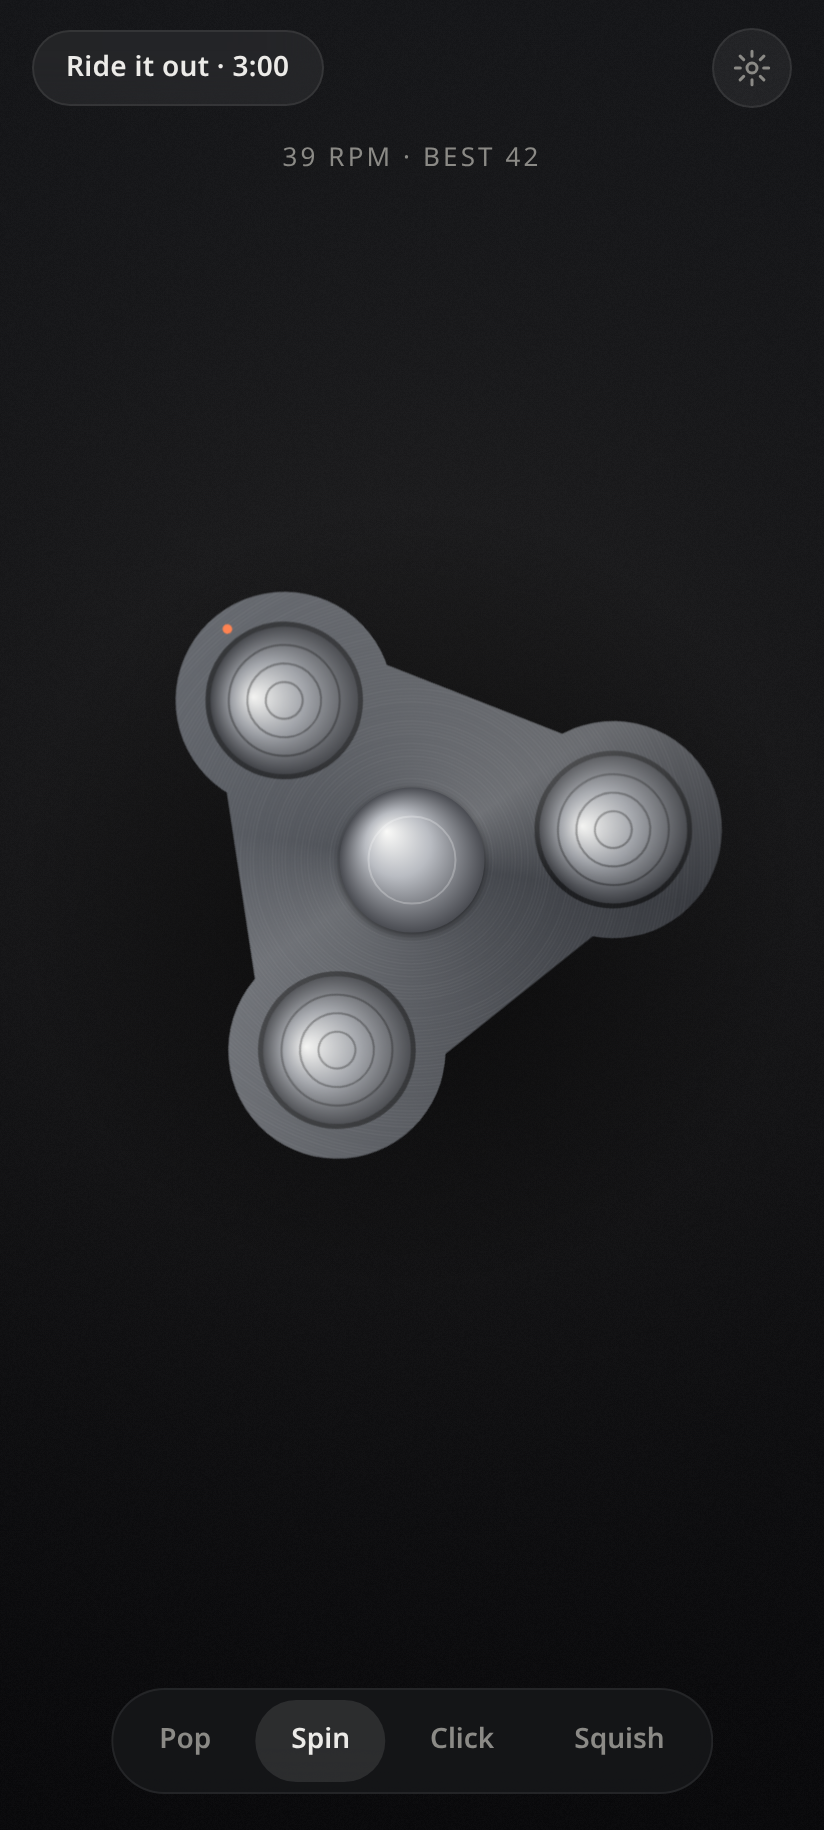
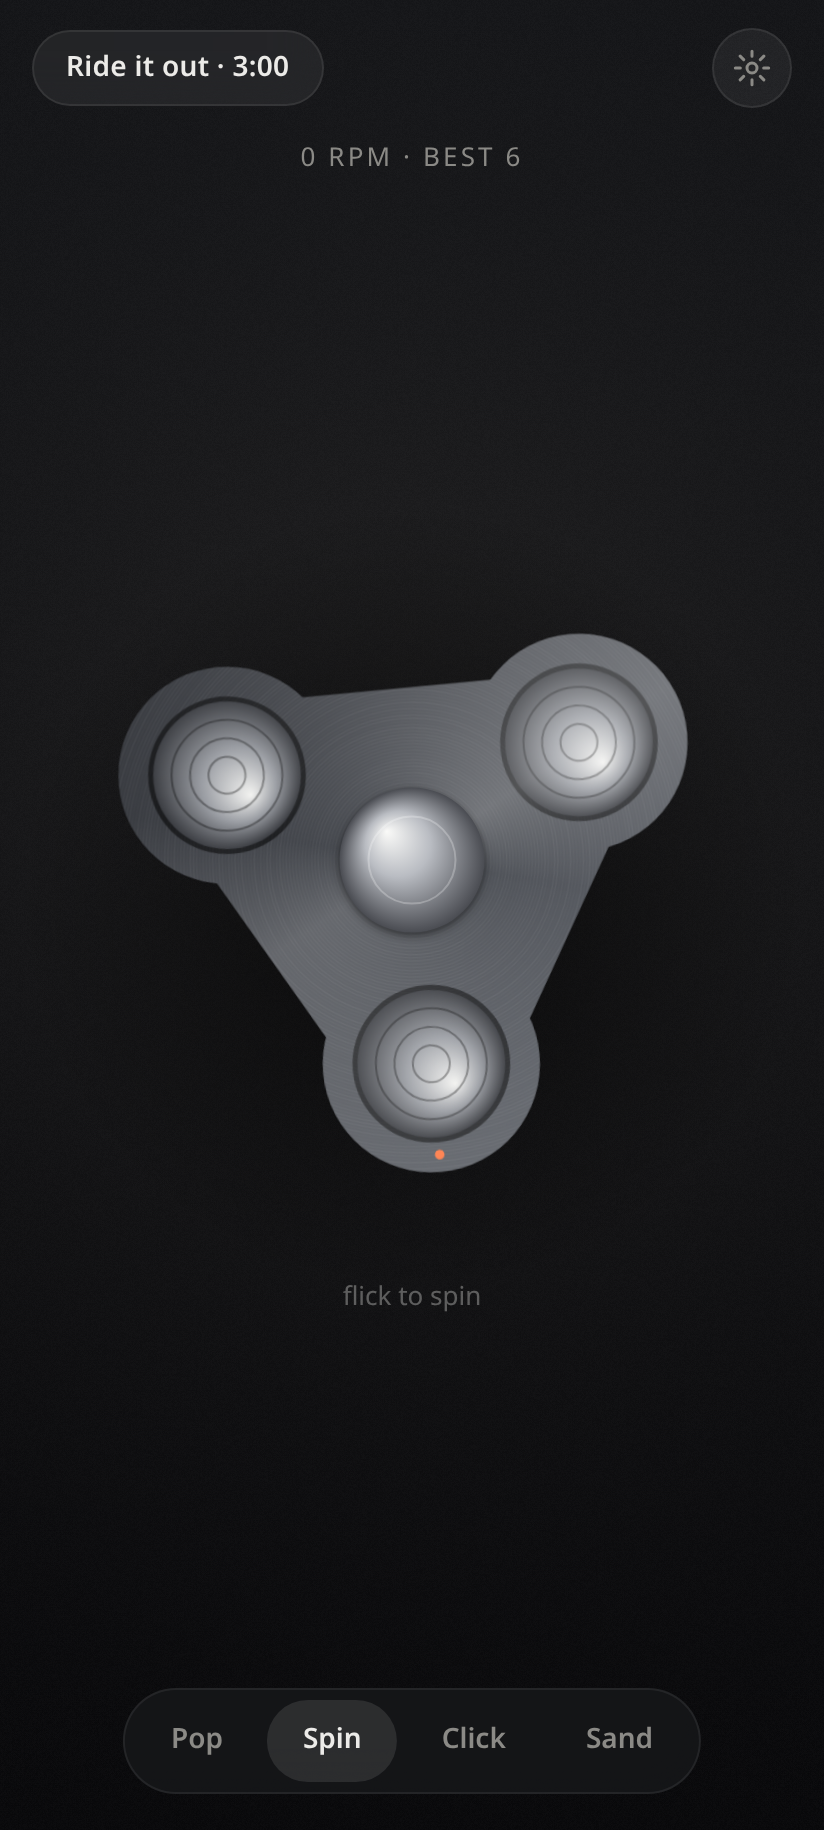
Replace Squish with Kinetic Sand

diff --git a/js/toys/sand.js b/js/toys/sand.js
@@ -1,0 +1,74 @@
+// Sand: kinetic-sand heightfield. Drag = slice, hold = dent, pinch = crumble, Mold = fresh shape.
+import { sfx, buzz, opts } from '../feel.js?v=2';
+import { makeGrid, mold, relax, carve, deposit, SHAPES } from './sandgrid.js?v=1';
+import { makeRenderer, COLORS } from './sandrender.js?v=1';
+import { rr, DPR } from '../render.js?v=1';
+const GW = 110;
+export function create() {
+  let W, H, G, ren, bx, by, bw, bh, cs, n = 0, crumbs = [], F = new Map(), tick = 0, btn, settle = 0, cuts = 0;
+  const toG = (x, y) => [(x - bx) / cs, (y - by) / cs];
+  function fresh() { mold(G, SHAPES[n % SHAPES.length]); crumbs = []; cuts = 0; }
+  function spawn(gx, gy, amt, vx, vy) { // crumbs carry sand mass; they tumble then re-deposit
+    const k = Math.min(6, Math.ceil(amt * 3));
+    for (let i = 0; i < k && crumbs.length < 500; i++) crumbs.push({ x: gx + Math.random() - 0.5, y: gy + Math.random() - 0.5, vx: vx + (Math.random() - 0.5) * 6, vy: vy + (Math.random() - 0.5) * 6, z: 0.4 + Math.random() * 0.4, m: amt / k, s: 0.6 + Math.random() * 0.9 });
+  }
+  function slice(x0, y0, x1, y1, speed) {
+    const [a, b] = toG(x0, y0), [c, d] = toG(x1, y1), L = Math.hypot(c - a, d - b), steps = Math.ceil(L * 4) || 1;
+    const nx = -(d - b) / (L || 1), ny = (c - a) / (L || 1); let rem = 0;
+    for (let s = 1; s <= steps; s++) {
+      const gx = a + (c - a) * s / steps, gy = b + (d - b) * s / steps, r = carve(G, gx, gy, 1.5, 3); rem += r;
+      if (r > 0.05) { const side = Math.random() < 0.5 ? 1 : -1; spawn(gx + nx * side * 2.6, gy + ny * side * 2.6, r * 0.9, nx * side * 9, ny * side * 9); }
+    }
+    if (rem > 0.05) { sfx.sand(Math.min(1, speed / 1.5)); buzz(5 + Math.min(10, rem * 2)); cuts++; }
+  }
+  return {
+    resize(w, h) {
+      W = w; H = h; bw = Math.min(W * 0.92, 420); cs = bw / GW; const gh = Math.round(Math.min(H * 0.56, bw * 1.15) / cs); bh = gh * cs;
+      bx = (W - bw) / 2; by = H * 0.47 - bh / 2; G = makeGrid(GW, gh); ren = makeRenderer(G, Math.min(1.5, DPR())); fresh();
+      btn = { w: 112, h: 40, x: W / 2 - 56, y: by + bh + 14 };
+    },
+    hud: () => `${SHAPES[n % SHAPES.length]} · slice · press · pinch`,
+    down(id, x, y) {
+      if (x > btn.x && x < btn.x + btn.w && y > btn.y && y < btn.y + btn.h) { n++; fresh(); sfx.sand(0.9); setTimeout(() => sfx.sand(0.5), 70); buzz(25); return; }
+      F.set(id, { x, y, sx: x, sy: y, t: performance.now(), lx: x, ly: y, cut: false, lt: performance.now() });
+    },
+    move(id, x, y) {
+      const f = F.get(id); if (!f) return; const now = performance.now();
+      if (!f.cut && Math.hypot(x - f.sx, y - f.sy) > 7 && F.size === 1) f.cut = true;
+      if (f.cut) { const sp = Math.hypot(x - f.lx, y - f.ly) / Math.max(1, now - f.lt); slice(f.lx, f.ly, x, y, sp); }
+      f.lx = x; f.ly = y; f.lt = now; f.x = x; f.y = y;
+    },
+    up(id) { F.delete(id); },
+    step(dt) {
+      tick++;
+      // press: held finger sinks a fingertip-shaped dent, displaced sand rises on the rim
+      const fs = [...F.values()];
+      for (const f of fs) if (!f.cut && fs.length === 1 && performance.now() - f.t > 90) {
+        const [gx, gy] = toG(f.x, f.y); const r = carve(G, gx, gy, 4.2, 0.004);
+        if (r > 0) { for (let a = 0; a < 6.28; a += 0.5) deposit(G, gx + Math.cos(a) * 5, gy + Math.sin(a) * 5.4, r / 13); if (tick % 24 === 0) { sfx.sand(0.15); buzz(3); } }
+      }
+      // pinch: two fingers closing crumble the sand between them
+      if (fs.length === 2) {
+        const [p, q] = fs, d = Math.hypot(p.x - q.x, p.y - q.y); if (p.pd && d < p.pd - 0.5) {
+          const [mx, my] = toG((p.x + q.x) / 2, (p.y + q.y) / 2), r = carve(G, mx + (Math.random() - .5) * d / cs * 0.5, my + (Math.random() - .5) * 3, 2.5, 0.06);
+          if (r > 0.02) { spawn(mx, my, r, (Math.random() - .5) * 10, (Math.random() - .5) * 10); if (tick % 6 === 0) { sfx.sand(0.4); buzz(6); } }
+        } p.pd = d;
+      }
+      if (tick % 3 === 0) { const m = relax(G, 0.3, 0.06); if (m > 0.4 && tick % 30 === 0) sfx.sand(0.1); }
+      for (let i = crumbs.length - 1; i >= 0; i--) {
+        const c = crumbs[i]; c.x += c.vx * dt; c.y += c.vy * dt; c.vx *= 0.94; c.vy *= 0.94; c.z -= dt * 1.6;
+        if (c.z <= 0 && Math.hypot(c.vx, c.vy) < 0.8) { deposit(G, c.x, c.y, c.m); crumbs.splice(i, 1); }
+      }
+    },
+    draw(g) {
+      // tray
+      rr(g, bx - 10, by - 10, bw + 20, bh + 20, 26); g.fillStyle = 'rgba(255,255,255,.025)'; g.fill(); g.strokeStyle = 'rgba(255,255,255,.05)'; g.lineWidth = 1; g.stroke();
+      const col = COLORS[n % COLORS.length];
+      ren.draw(g, bx, by, bw, bh, col, opts.calm);
+      const [r0, g0, b0] = opts.calm ? [150, 160, 150] : col;
+      for (const c of crumbs) { const s = 0.75 + c.s * 0.2; g.fillStyle = `rgb(${r0 * s | 0},${g0 * s | 0},${b0 * s | 0})`; const z = c.z * 6; g.fillRect(bx + c.x * cs - c.s, by + c.y * cs - c.s - z, c.s * 2, c.s * 2); }
+      rr(g, btn.x, btn.y, btn.w, btn.h, 20); g.fillStyle = 'rgba(255,255,255,.08)'; g.fill(); g.strokeStyle = 'rgba(255,255,255,.1)'; g.stroke();
+      g.fillStyle = '#ecebe8'; g.font = '600 14px system-ui'; g.textAlign = 'center'; g.textBaseline = 'middle'; g.fillText('Mold ↻', W / 2, btn.y + btn.h / 2 + 1);
+    },
+  };
+}

diff --git a/js/toys/sandrender.js b/js/toys/sandrender.js
@@ -1,0 +1,40 @@
+// Shades the sand heightfield (top-left key light) into a small canvas, then adds a crisp full-res grain layer.
+export const COLORS = [[232, 120, 92], [96, 168, 190], [214, 180, 112], [150, 120, 200], [120, 176, 120]];
+export function makeRenderer(G, dpr) {
+  const c = document.createElement('canvas'); c.width = G.gw; c.height = G.gh;
+  const g = c.getContext('2d'), img = g.createImageData(G.gw, G.gh);
+  const out = document.createElement('canvas'), og = out.getContext('2d');
+  const noise = document.createElement('canvas'); noise.width = noise.height = 128;
+  const ng = noise.getContext('2d'), nd = ng.createImageData(128, 128);
+  for (let i = 0; i < nd.data.length; i += 4) { const v = Math.random() < 0.5 ? 0 : 255; nd.data[i] = nd.data[i + 1] = nd.data[i + 2] = v; nd.data[i + 3] = 10 + Math.random() * 34; }
+  ng.putImageData(nd, 0, 0);
+  let pat = null; const sh = document.createElement('canvas'); sh.width = G.gw + 16; sh.height = G.gh + 16; const sg = sh.getContext('2d');
+  return {
+    draw(dst, x, y, w, h, col, calm) {
+      const { gw, gh, h: H, grain } = G, d = img.data;
+      const [r0, g0, b0] = calm ? [150, 160, 150] : col;
+      for (let j = 0; j < gh; j++) for (let i = 0; i < gw; i++) {
+        const k = j * gw + i, v = H[k], p = k * 4;
+        if (v < 0.015) { d[p + 3] = 0; continue; }
+        const l = i > 0 ? H[k - 1] : 0, r = i < gw - 1 ? H[k + 1] : 0, u = j > 0 ? H[k - gw] : 0, dn = j < gh - 1 ? H[k + gw] : 0;
+        const nx = (l - r) * 3.2, ny = (u - dn) * 3.2; // gradient -> normal
+        let s = 0.78 + (nx * 0.6 + ny * 0.8) * 0.55 + v * 0.12; // key light top-left + slight height AO
+        const steep = Math.min(1, Math.hypot(nx, ny) * 0.6); // cut faces: rougher, more grain contrast
+        s += (grain[k] - 0.5) * (0.07 + steep * 0.22);
+        s = Math.max(0.35, Math.min(1.35, s));
+        d[p] = Math.min(255, r0 * s); d[p + 1] = Math.min(255, g0 * s); d[p + 2] = Math.min(255, b0 * s);
+        d[p + 3] = Math.min(255, v * 2200);
+      }
+      g.putImageData(img, 0, 0);
+      const W = Math.ceil(w * dpr), Hh = Math.ceil(h * dpr); if (out.width !== W || out.height !== Hh) { out.width = W; out.height = Hh; pat = null; }
+      og.globalCompositeOperation = 'source-over'; og.clearRect(0, 0, W, Hh); og.imageSmoothingEnabled = true; og.imageSmoothingQuality = 'high';
+      og.drawImage(c, 0, 0, W, Hh);
+      og.globalCompositeOperation = 'source-atop'; pat = pat || og.createPattern(noise, 'repeat'); og.fillStyle = pat; og.fillRect(0, 0, W, Hh);
+      og.globalCompositeOperation = 'source-over';
+      // soft contact shadow: blurred silhouette offset down-right
+      if ((this.f = (this.f || 0) + 1) % 4 === 1) { sg.clearRect(0, 0, sh.width, sh.height); sg.filter = 'blur(3px) brightness(0)'; sg.drawImage(c, 8, 8); sg.filter = 'none'; }
+      const sc = w / G.gw; dst.globalAlpha = 0.5; dst.drawImage(sh, x - 8 * sc + 5, y - 8 * sc + 10, sh.width * sc, sh.height * sc); dst.globalAlpha = 1;
+      dst.drawImage(out, x, y, w, h);
+    },
+  };
+}

diff --git a/js/toys/sandgrid.js b/js/toys/sandgrid.js
@@ -1,0 +1,38 @@
+// Heightfield for kinetic sand. h in [0..~1.3]; cohesive: only slopes above REPOSE creep, slowly.
+export const SHAPES = ['brick', 'dome', 'heart', 'tower'];
+export function makeGrid(gw, gh) {
+  const h = new Float32Array(gw * gh), grain = new Float32Array(gw * gh);
+  for (let i = 0; i < grain.length; i++) grain[i] = Math.random();
+  return { gw, gh, h, grain, tmp: new Float32Array(gw * gh) };
+}
+export function mold(G, shape) {
+  const { gw, gh, h } = G, cx = gw / 2, cy = gh / 2, R = Math.min(gw, gh) * 0.42;
+  for (let y = 0; y < gh; y++) for (let x = 0; x < gw; x++) {
+    const dx = (x - cx) / R, dy = (y - cy) / R; let v = 0;
+    if (shape === 'brick') { const e = Math.max(Math.abs(dx) / 1.05, Math.abs(dy) / 0.72); v = e < 1 ? Math.min(1, (1 - e) * 14) : 0; }
+    else if (shape === 'dome') { const r = Math.hypot(dx, dy); v = r < 1 ? Math.sqrt(1 - r * r) * 1.1 : 0; }
+    else if (shape === 'heart') { const X = dx * 1.15, Y = -dy * 1.15 + 0.25; const f = (X * X + Y * Y - 1) ** 3 - X * X * Y * Y * Y; v = f < 0 ? Math.min(1, -f * 6) : 0; }
+    else { const r = Math.hypot(dx, dy) / 0.62; v = r < 1 ? Math.min(1, (1 - r) * 10) * (1 + 0.15 * Math.cos(Math.atan2(dy, dx) * 8)) : 0; }
+    h[y * gw + x] = v;
+  }
+}
+// one relaxation pass; returns amount moved
+export function relax(G, repose = 0.32, rate = 0.12) {
+  const { gw, gh, h } = G; let moved = 0;
+  for (let y = 1; y < gh - 1; y++) for (let x = 1; x < gw - 1; x++) {
+    const i = y * gw + x, a = h[i]; if (a < 0.02) continue;
+    for (const j of [i + 1, i - 1, i + gw, i - gw]) {
+      const d = a - h[j]; if (d > repose) { const m = (d - repose) * rate; h[i] -= m; h[j] += m; moved += m; }
+    }
+  }
+  return moved;
+}
+export function carve(G, x, y, r, depth) { // remove material in radius; returns removed
+  const { gw, gh, h } = G; let rem = 0;
+  for (let j = Math.max(1, Math.floor(y - r)); j <= Math.min(gh - 2, Math.ceil(y + r)); j++)
+    for (let i = Math.max(1, Math.floor(x - r)); i <= Math.min(gw - 2, Math.ceil(x + r)); i++) {
+      const d = Math.hypot(i - x, j - y); if (d > r) continue; const k = j * gw + i, t = Math.min(h[k], depth * (1 - d / r * 0.3)); h[k] -= t; rem += t;
+    }
+  return rem;
+}
+export function deposit(G, x, y, amt) { const i = Math.round(x), j = Math.round(y); if (i > 0 && j > 0 && i < G.gw - 1 && j < G.gh - 1) G.h[j * G.gw + i] += amt; }

diff --git a/js/main.js b/js/main.js
@@ -1,4 +1,4 @@
-import { opts, unlock, setVol } from './feel.js?v=1';
+import { opts, unlock, setVol } from './feel.js?v=2';
 import { initCrave } from './crave.js?v=1';
 
 const cv = document.getElementById('stage');
@@ -8,7 +8,7 @@ let W = 0, H = 0, DPR = 1, toy = null, toyName = '', bg = null;
 const cache = {};
 const loaders = {
   pop: () => import('./toys/pop.js?v=1'), spin: () => import('./toys/spin.js?v=1'),
-  click: () => import('./toys/click.js?v=1'), squish: () => import('./toys/squish.js?v=1'),
+  click: () => import('./toys/click.js?v=1'), sand: () => import('./toys/sand.js?v=2'),
 };
 
 function paintBg() {
@@ -45,7 +45,7 @@ document.getElementById('dock').addEventListener('click', e => { const b = e.tar
 
 // pointer input -> toy (multi-touch, coalesced for sub-frame precision)
 const P = new Map();
-cv.addEventListener('pointerdown', e => { unlock(); cv.setPointerCapture(e.pointerId); P.set(e.pointerId, 1); toy && toy.down(e.pointerId, e.clientX, e.clientY, e.pressure); e.preventDefault(); });
+cv.addEventListener('pointerdown', e => { unlock(); try { cv.setPointerCapture(e.pointerId); } catch (_) {} P.set(e.pointerId, 1); toy && toy.down(e.pointerId, e.clientX, e.clientY, e.pressure); e.preventDefault(); });
 cv.addEventListener('pointermove', e => {
   if (!P.has(e.pointerId) || !toy) return;
   const list = e.getCoalescedEvents ? e.getCoalescedEvents() : [e];

diff --git a/sw.js b/sw.js
@@ -1,6 +1,6 @@
-const V = 'fidget-v1';
-const ASSETS = ['./', 'index.html', 'styles.css?v=1', 'manifest.json', 'privacy.html', 'js/main.js?v=1', 'js/feel.js?v=1', 'js/crave.js?v=1', 'js/render.js?v=1',
-  'js/toys/pop.js?v=1', 'js/toys/spin.js?v=1', 'js/toys/click.js?v=1', 'js/toys/squish.js?v=1', 'icons/icon-192.png', 'icons/icon-512.png'];
+const V = 'fidget-v3';
+const ASSETS = ['./', 'index.html', 'styles.css?v=1', 'manifest.json', 'privacy.html', 'js/main.js?v=3', 'js/feel.js?v=2', 'js/crave.js?v=1', 'js/render.js?v=1',
+  'js/toys/pop.js?v=1', 'js/toys/spin.js?v=1', 'js/toys/click.js?v=1', 'js/toys/sand.js?v=2', 'js/toys/sandgrid.js?v=1', 'js/toys/sandrender.js?v=1', 'icons/icon-192.png', 'icons/icon-512.png'];
 self.addEventListener('install', e => { e.waitUntil(caches.open(V).then(c => Promise.allSettled(ASSETS.map(a => c.add(a))))); self.skipWaiting(); });
 self.addEventListener('activate', e => { e.waitUntil(caches.keys().then(k => Promise.all(k.filter(x => x !== V).map(x => caches.delete(x)))).then(() => self.clients.claim())); });
 self.addEventListener('fetch', e => {

diff --git a/js/feel.js b/js/feel.js
@@ -69,6 +69,12 @@ export const sfx = {
     if (!ok()) return; const t = ctx.currentTime;
     nz(t, 0.12 + amt * 0.1, 'lowpass', 300 + amt * 700, 3, Math.min(0.5, amt) * 0.6 * cm(), 0.02);
   },
+  // kinetic sand: soft granular crunch; amt 0..1 (cut speed / crumble size)
+  sand(amt = 0.5) {
+    if (!ok()) return; const t = ctx.currentTime, k = cm();
+    nz(t, 0.05 + amt * 0.06, 'bandpass', jit(1400 + amt * 1800, 0.25), 0.9, (0.08 + amt * 0.22) * k, 0.006);
+    nz(t, 0.08, 'lowpass', 380, 0.8, 0.06 * amt * k, 0.01);
+  },
   chime(f = 660) { if (!ok()) return; const t = ctx.currentTime; tone(t, f, f, 1.6, 0.12 * cm()); tone(t, f * 1.5, f * 1.5, 1.2, 0.05 * cm()); },
 };
 

diff --git a/js/toys/spin.js b/js/toys/spin.js
@@ -1,6 +1,6 @@
 // Spin: machined tri-lobe spinner. Direct-grab rotation, real inertia + bearing friction,
 // detent clicks at low speed, bearing whir at high speed, fixed studio lighting over a rotating body.
-import { sfx, buzz, opts } from '../feel.js?v=1';
+import { sfx, buzz, opts } from '../feel.js?v=2';
 import { sprite, DPR } from '../render.js?v=1';
 export function create() {
   let W, H, cx, cy, R, body, off, og, a = 0, w = 0, grab = null, best = +(localStorage.getItem('fidget.rpm') || 0), lastDet = 0, hist = [];

diff --git a/index.html b/index.html
@@ -31,7 +31,7 @@
     <button data-toy="pop" class="on">Pop</button>
     <button data-toy="spin">Spin</button>
     <button data-toy="click">Click</button>
-    <button data-toy="squish">Squish</button>
+    <button data-toy="sand">Sand</button>
   </nav>
   <div id="sheet" class="sheet" hidden>
     <div class="sh-card">
@@ -45,6 +45,6 @@
     </div>
   </div>
 </div>
-<script type="module" src="js/main.js?v=1"></script>
+<script type="module" src="js/main.js?v=3"></script>
 </body>
 </html>

diff --git a/js/crave.js b/js/crave.js
@@ -1,5 +1,5 @@
 // "Ride it out": cravings typically crest and fade within minutes. 3:00 timer + 4-6 breathing pacer.
-import { sfx, buzzPattern } from './feel.js?v=1';
+import { sfx, buzzPattern } from './feel.js?v=2';
 export function initCrave() {
   const box = document.getElementById('crave'), btn = document.getElementById('craveBtn');
   const arc = document.getElementById('craveArc'), tm = document.getElementById('craveTime'), br = document.getElementById('craveBreath');

diff --git a/js/toys/pop.js b/js/toys/pop.js
@@ -1,6 +1,6 @@
 // Pop: bubble wrap with springy domes, finger-roll popping, neighbour jiggle and endless sheets.
-import { sfx, buzz } from '../feel.js?v=1';
-import { opts } from '../feel.js?v=1';
+import { sfx, buzz } from '../feel.js?v=2';
+import { opts } from '../feel.js?v=2';
 import { sprite, rr, DPR, hsl } from '../render.js?v=1';
 const TINTS = [[205, 30], [32, 55], [150, 22], [345, 35], [265, 25]];
 export function create() {

diff --git a/js/toys/click.js b/js/toys/click.js
@@ -1,5 +1,5 @@
 // Click: mechanical switches with modelled travel (4 mm), actuation point, tactile bump and spring return.
-import { sfx, buzz, opts } from '../feel.js?v=1';
+import { sfx, buzz, opts } from '../feel.js?v=2';
 import { rr, hsl } from '../render.js?v=1';
 const KINDS = [
   { k: 'clicky', name: 'Clicky', stem: '#4d8dff', pitch: 1.05, hue: 30 },

diff --git a/test.py b/test.py
@@ -32,11 +32,23 @@ async def main():
     # CLICK
     await pg.evaluate("__fidget.select('click')"); await pg.wait_for_timeout(300)
     await m.move(206,430); await m.down(); await pg.wait_for_timeout(120); await pg.screenshot(path='preview/3-click.png'); await m.up()
-    # SQUISH: grab and drag
-    await pg.evaluate("__fidget.select('squish')"); await pg.wait_for_timeout(300)
-    await m.move(240,430); await m.down()
-    for i in range(12): await m.move(240+i*9,430-i*3); await pg.wait_for_timeout(16)
-    await pg.screenshot(path='preview/4-squish.png'); await m.up()
+    # SAND: slice, then pinch-crumble, then press
+    await pg.evaluate("__fidget.select('sand')"); await pg.wait_for_timeout(300)
+    await m.move(120,330); await m.down()
+    for i in range(14): await m.move(120+i*12,330+i*14); await pg.wait_for_timeout(16)
+    await pg.screenshot(path='preview/4-sand-slice.png'); await m.up()
+    await m.move(290,520); await m.down()
+    for i in range(10): await m.move(290-i*10,520-i*4); await pg.wait_for_timeout(16)
+    await m.up(); await m.move(260,400); await m.down(); await pg.wait_for_timeout(600); await m.up()
+    await pg.wait_for_timeout(700); await pg.screenshot(path='preview/4b-sand-crumble.png')
+    ev="(t,id,x,y)=>document.getElementById('stage').dispatchEvent(new PointerEvent(t,{pointerId:id,clientX:x,clientY:y,bubbles:true,pointerType:'touch'}))"
+    await pg.evaluate(f"(({ev})('pointerdown',11,150,450),({ev})('pointerdown',12,260,450))")
+    for i in range(14):
+      await pg.evaluate(f"(({ev})('pointermove',11,{150+i*4},450),({ev})('pointermove',12,{260-i*4},450))"); await pg.wait_for_timeout(16)
+    await pg.screenshot(path='preview/4c-sand-pinch.png')
+    await pg.evaluate(f"(({ev})('pointerup',11,200,450),({ev})('pointerup',12,210,450))")
+    fps2=await pg.evaluate("""()=>new Promise(r=>{let n=0,t0=performance.now();function f(){n++;if(performance.now()-t0<2000)requestAnimationFrame(f);else r(n/2)}requestAnimationFrame(f)})""")
+    print('sand fps',fps2)
     # craving + settings
     await pg.click('#craveBtn'); await pg.wait_for_timeout(1500); await pg.screenshot(path='preview/5-crave.png')
     await pg.click('#setBtn'); await pg.wait_for_timeout(200); await pg.screenshot(path='preview/6-settings.png')
